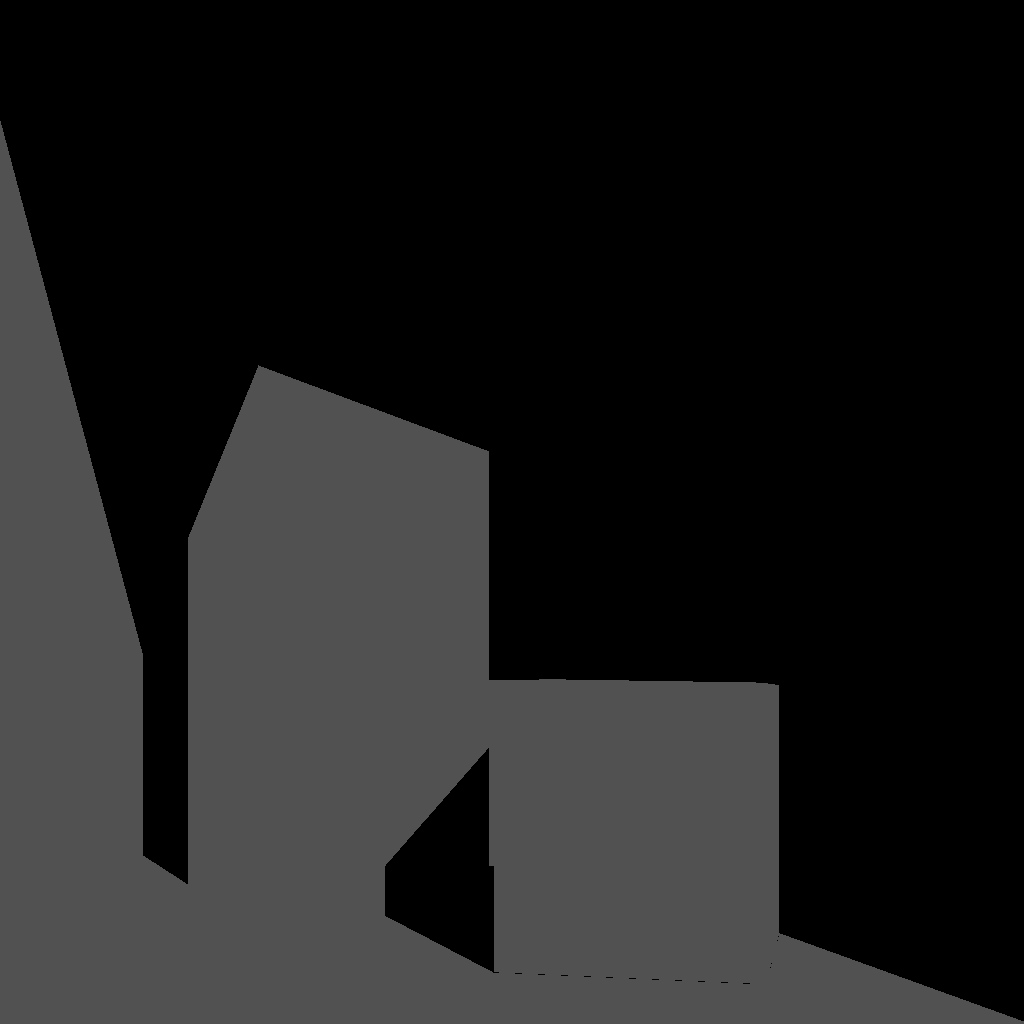
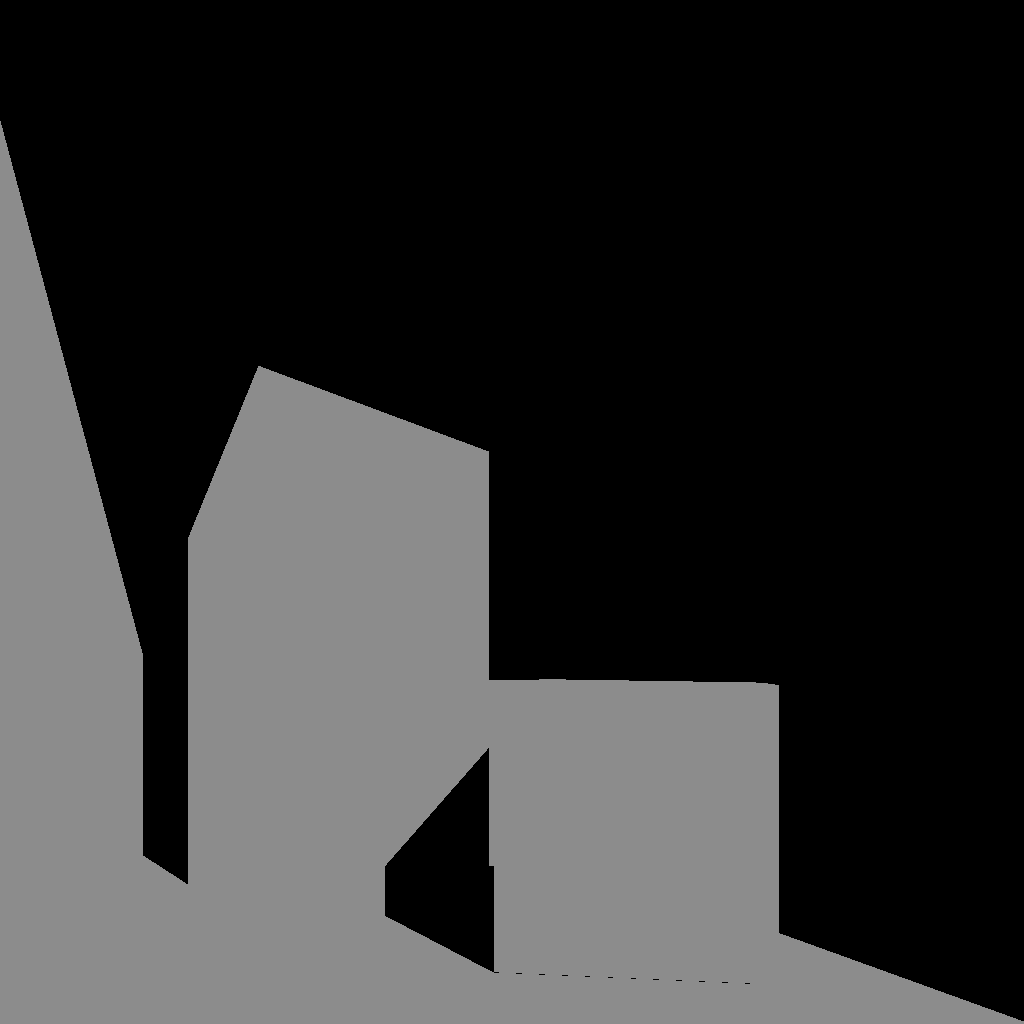
Maybe directional works, Abs Dot product was needed

diff --git a/render.cpp b/render.cpp
@@ -26,12 +26,13 @@ long long Integrator::render()
                         Interaction shadowRayInteraction = this->scene.rayIntersect(shadowRay);
 
                         if(!shadowRayInteraction.didIntersect){
-                            color += shade(light, white_color);
+                            color += shade(light, white_color) * AbsDot(light.locationOrDirection, si.n);
                         }
                     }
                 }
                 this->outputImage.writePixelColor(color, x, y);
             }
+            this->outputImage.writePixelColor(color, x, y);
         }
     }
     auto finishTime = std::chrono::high_resolution_clock::now();
